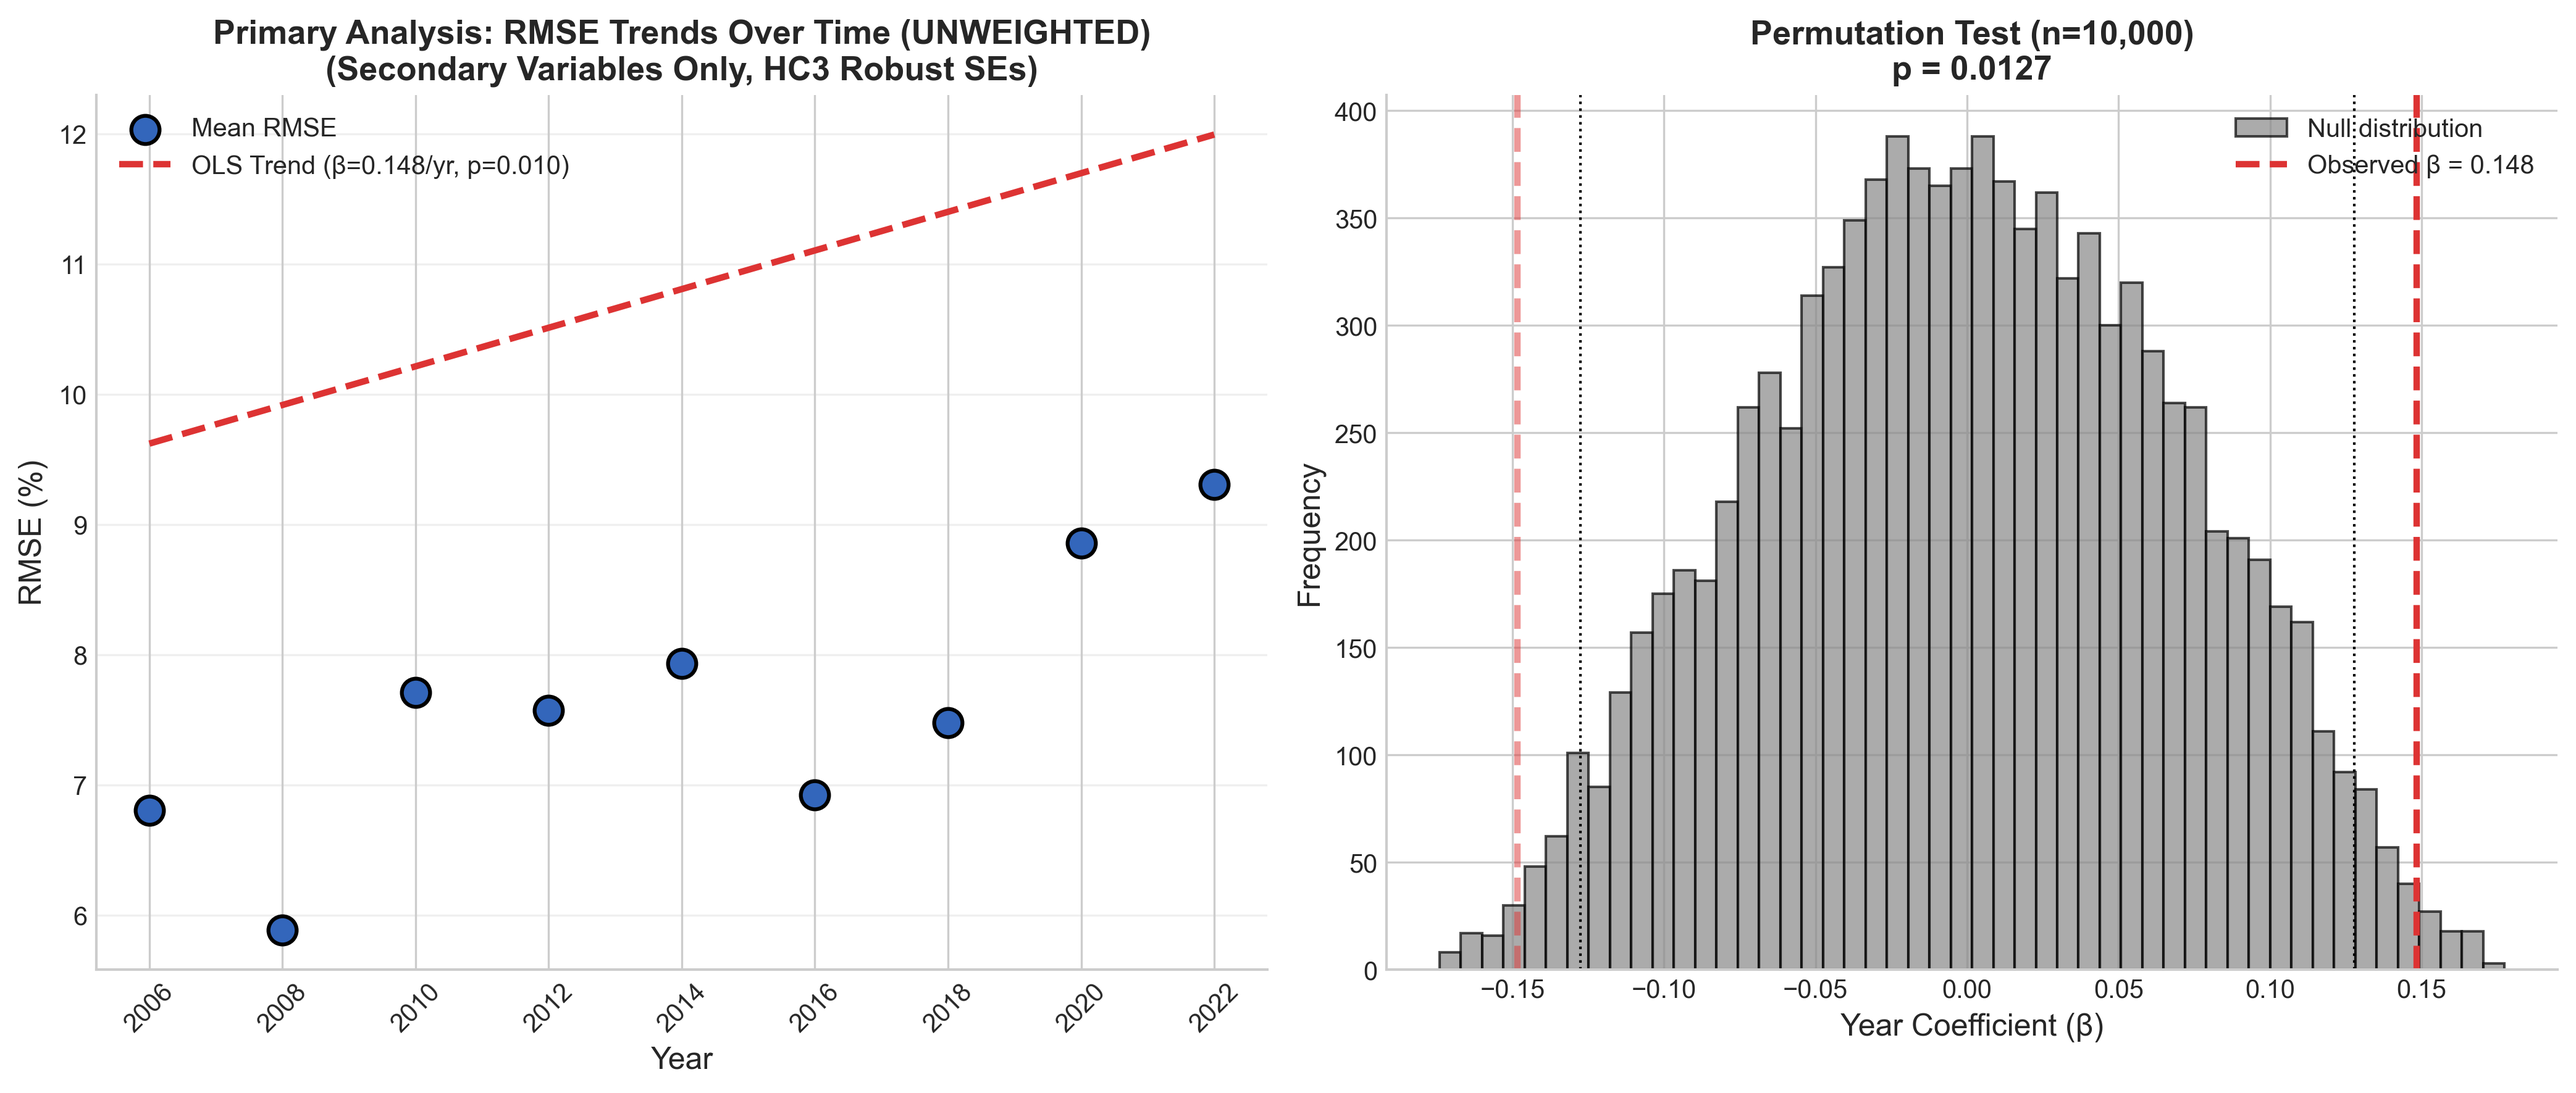
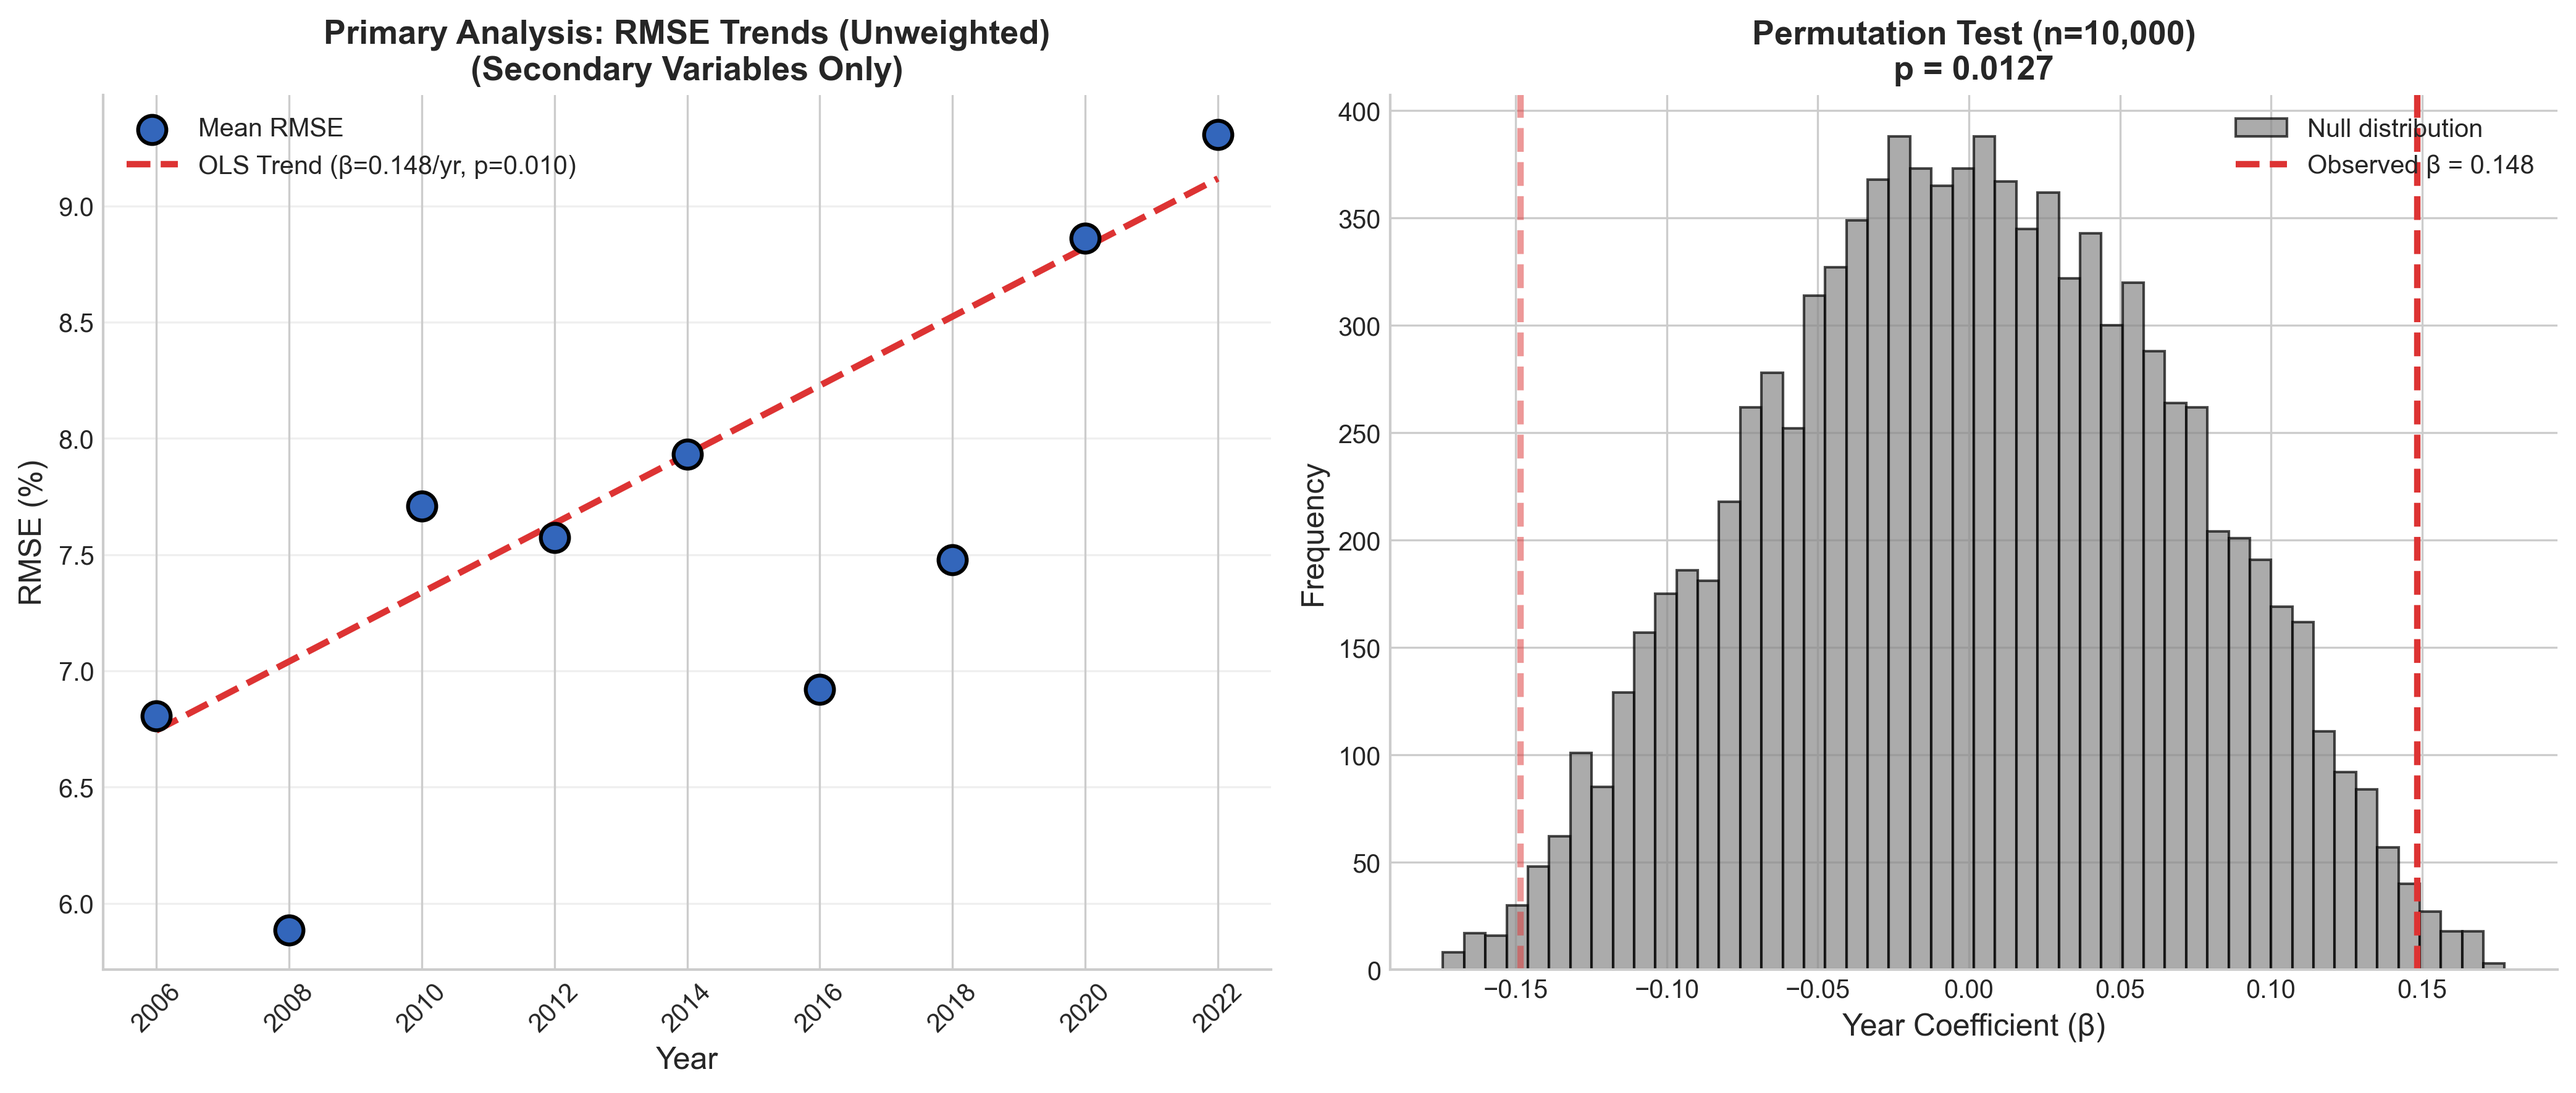
Fix trend line baseline to use actual mean at center year

diff --git a/tables_and_figures/output/winsor_sensitivity.tex b/tables_and_figures/output/winsor_sensitivity.tex
@@ -6,31 +6,31 @@
 \begin{threeparttable}
 \begin{tabular}{llcccccc}
 \toprule
-Class & Winsorization & Slope & SE & p-value & Sig. & $R^2$ & Mean Error \\
+Class & Winsorization & Slope & SE & p-value & Sig. & $R^2$ & Mean Error \
 \midrule
-Candidate Choice & None & 0.0255 & 0.0219 & 0.2432 & No & 0.0004 & 6.99 \\
- & 1\% & 0.0244 & 0.0207 & 0.2391 & No & 0.0004 & 6.92 \\
- & 2.5\% & 0.0254 & 0.0199 & 0.2028 & No & 0.0004 & 6.85 \\
- & 5\% & 0.0264 & 0.0187 & 0.1565 & No & 0.0005 & 6.72 \\
- & 10\% & 0.0248 & 0.0167 & 0.1362 & No & 0.0006 & 6.52 \\
+Candidate Choice & None & 0.0255 & 0.0219 & 0.2432 & No & 0.0004 & 6.99 \
+ & 1\% & 0.0244 & 0.0207 & 0.2391 & No & 0.0004 & 6.92 \
+ & 2.5\% & 0.0254 & 0.0199 & 0.2028 & No & 0.0004 & 6.85 \
+ & 5\% & 0.0264 & 0.0187 & 0.1565 & No & 0.0005 & 6.72 \
+ & 10\% & 0.0248 & 0.0167 & 0.1362 & No & 0.0006 & 6.52 \
 \midrule
-Demographic & None & 0.0860 & 0.0205 & 0.0000* & Yes & 0.0095 & 5.39 \\
- & 1\% & 0.0858 & 0.0203 & 0.0000* & Yes & 0.0096 & 5.38 \\
- & 2.5\% & 0.0852 & 0.0200 & 0.0000* & Yes & 0.0098 & 5.35 \\
- & 5\% & 0.0792 & 0.0194 & 0.0000* & Yes & 0.0090 & 5.30 \\
- & 10\% & 0.0641 & 0.0183 & 0.0005* & Yes & 0.0067 & 5.18 \\
+Demographic & None & 0.0860 & 0.0205 & 0.0000* & Yes & 0.0095 & 5.39 \
+ & 1\% & 0.0858 & 0.0203 & 0.0000* & Yes & 0.0096 & 5.38 \
+ & 2.5\% & 0.0852 & 0.0200 & 0.0000* & Yes & 0.0098 & 5.35 \
+ & 5\% & 0.0792 & 0.0194 & 0.0000* & Yes & 0.0090 & 5.30 \
+ & 10\% & 0.0641 & 0.0183 & 0.0005* & Yes & 0.0067 & 5.18 \
 \midrule
-Voting Administration & None & 0.1263 & 0.0302 & 0.0000* & Yes & 0.0370 & 3.84 \\
- & 1\% & 0.1260 & 0.0293 & 0.0000* & Yes & 0.0390 & 3.81 \\
- & 2.5\% & 0.1247 & 0.0283 & 0.0000* & Yes & 0.0408 & 3.78 \\
- & 5\% & 0.1210 & 0.0267 & 0.0000* & Yes & 0.0431 & 3.72 \\
- & 10\% & 0.1085 & 0.0226 & 0.0000* & Yes & 0.0483 & 3.53 \\
+Voting Administration & None & 0.1263 & 0.0302 & 0.0000* & Yes & 0.0370 & 3.84 \
+ & 1\% & 0.1260 & 0.0293 & 0.0000* & Yes & 0.0390 & 3.81 \
+ & 2.5\% & 0.1247 & 0.0283 & 0.0000* & Yes & 0.0408 & 3.78 \
+ & 5\% & 0.1210 & 0.0267 & 0.0000* & Yes & 0.0431 & 3.72 \
+ & 10\% & 0.1085 & 0.0226 & 0.0000* & Yes & 0.0483 & 3.53 \
 \midrule
-Overall & None & 0.0861 & 0.0147 & 0.0000* & Yes & 0.0057 & 6.26 \\
- & 1\% & 0.0845 & 0.0141 & 0.0000* & Yes & 0.0060 & 6.21 \\
- & 2.5\% & 0.0841 & 0.0136 & 0.0000* & Yes & 0.0063 & 6.15 \\
- & 5\% & 0.0810 & 0.0129 & 0.0000* & Yes & 0.0066 & 6.06 \\
- & 10\% & 0.0725 & 0.0117 & 0.0000* & Yes & 0.0064 & 5.88 \\
+Overall & None & 0.0861 & 0.0147 & 0.0000* & Yes & 0.0057 & 6.26 \
+ & 1\% & 0.0845 & 0.0141 & 0.0000* & Yes & 0.0060 & 6.21 \
+ & 2.5\% & 0.0841 & 0.0136 & 0.0000* & Yes & 0.0063 & 6.15 \
+ & 5\% & 0.0810 & 0.0129 & 0.0000* & Yes & 0.0066 & 6.06 \
+ & 10\% & 0.0725 & 0.0117 & 0.0000* & Yes & 0.0064 & 5.88 \
 \bottomrule
 \end{tabular}
 \begin{tablenotes}

diff --git a/tables_and_figures/output/rmse_trend_regression_by_variable.tex b/tables_and_figures/output/rmse_trend_regression_by_variable.tex
@@ -1,26 +1,26 @@
 \begin{table}[!htbp]
 \centering
 \footnotesize
-\caption{RMSE Trend Regression by Variable}
+\caption{RMSE Trend Regression by Variable (Winsorized 95/5)}
 \label{tab:rmse_trend_regression_by_variable}
 \begin{threeparttable}
-\begin{tabular}{lccccc}
+\begin{tabular}{lcc}
 \toprule
- & Variable & Class & Slope & R\_squared & p\_value \\
+Variable & Slope & p-value \\
 \midrule
-6 & Veteran Status & Demographic & -0.14 & 0.80 & 0.00 \\
-1 & Family Income & Demographic & 0.26 & 0.69 & 0.01 \\
-2 & State Representative & Candidate Choice & 0.25 & 0.48 & 0.04 \\
-7 & Voting Method & Voting Administration & 0.13 & 0.38 & 0.07 \\
-0 & Employment Status & Demographic & 0.17 & 0.25 & 0.17 \\
-5 & Union Membership & Demographic & 0.07 & 0.21 & 0.21 \\
-4 & U.S. House & Candidate Choice & 0.10 & 0.10 & 0.40 \\
-3 & State Senator & Candidate Choice & -0.09 & 0.04 & 0.62 \\
+Veteran Status$^{**}$ & -0.135 & 0.001 \\
+Family Income$^{*}$ & 0.258 & 0.019 \\
+Voting Method$^{*}$ & 0.137 & 0.045 \\
+State Representative & 0.112 & 0.123 \\
+Employment Status & 0.215 & 0.149 \\
+Union Membership & 0.084 & 0.149 \\
+U.S. House & 0.093 & 0.399 \\
+State Senator & -0.020 & 0.854 \\
 \bottomrule
 \end{tabular}
 \begin{tablenotes}
 \footnotesize
-\item \textit{Note:} Linear regression of RMSE over time for always-secondary variables. * p<0.05, ** p<0.01, *** p<0.001.
+\item \textit{Note:} Linear regression of winsorized RMSE (95/5) over time for always-secondary variables. * p<0.05, ** p<0.01, *** p<0.001.
 \end{tablenotes}
 \end{threeparttable}
 \end{table}
